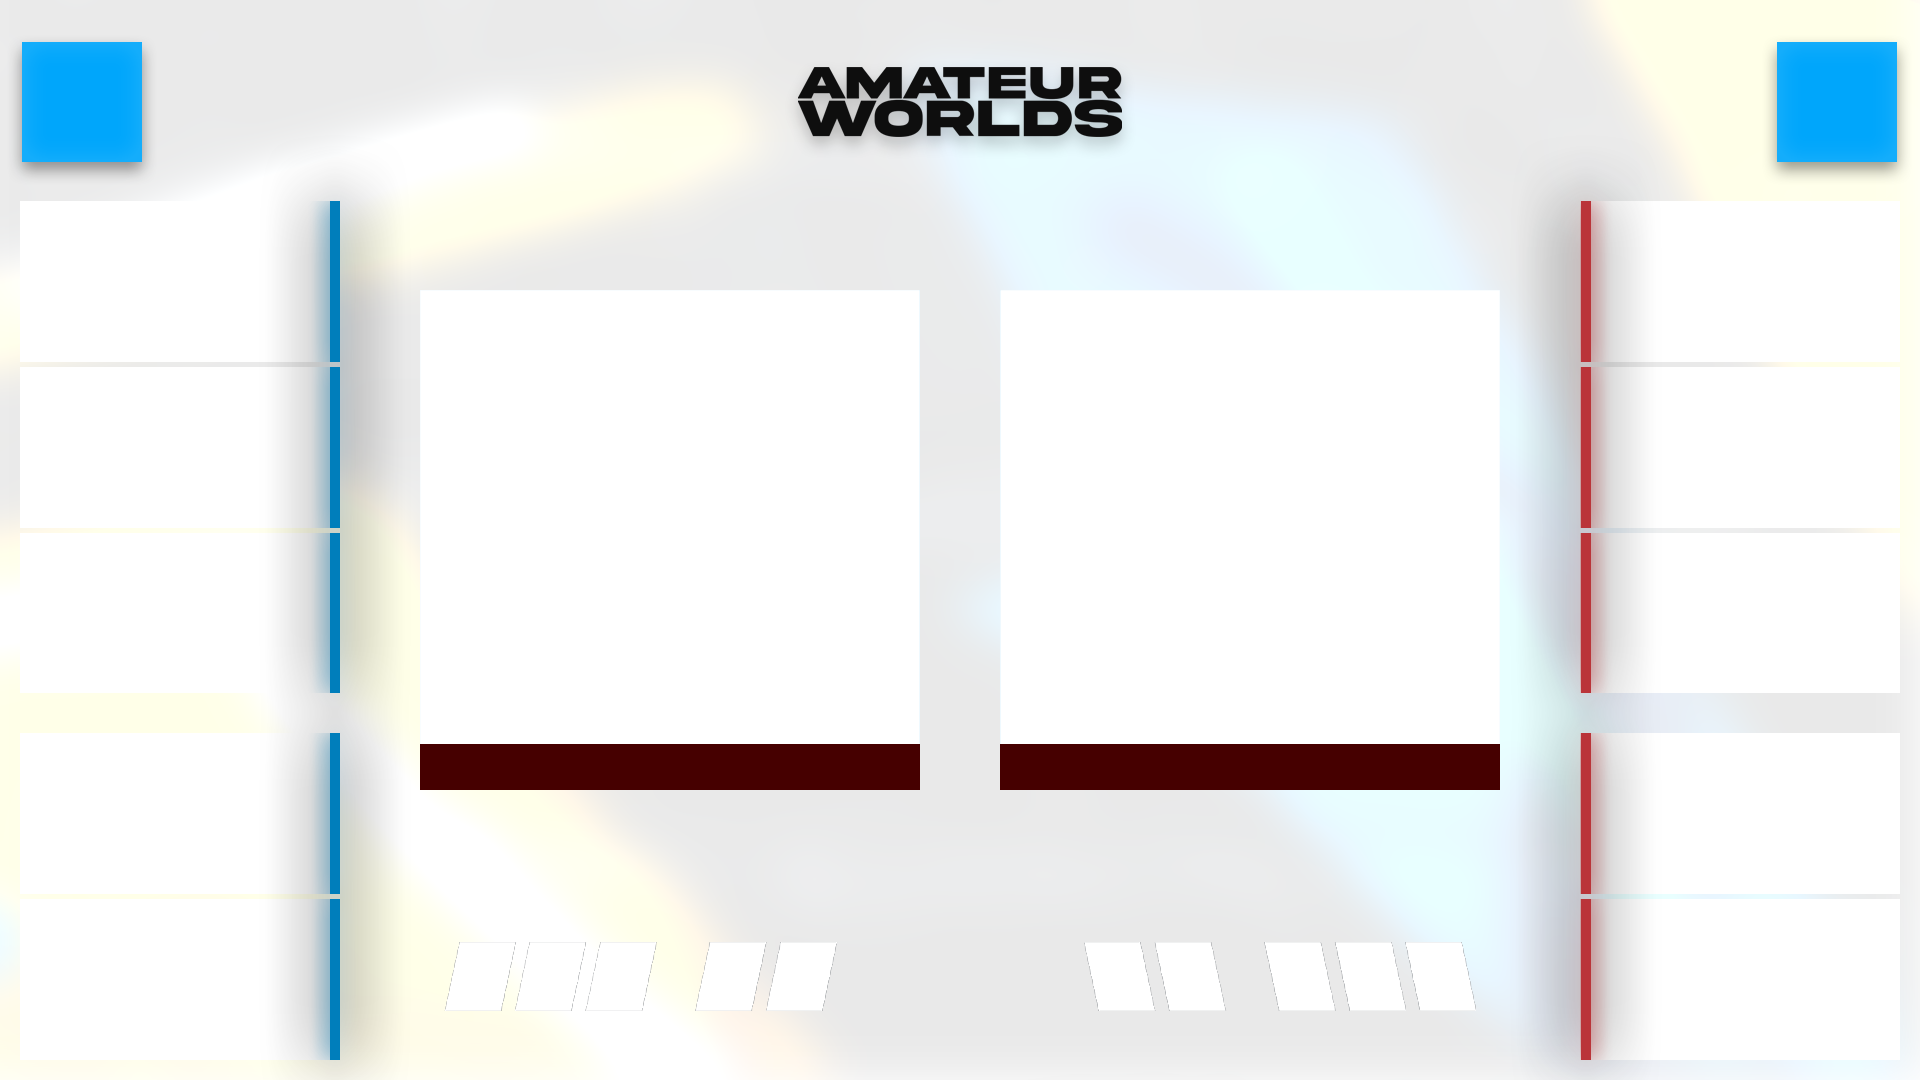
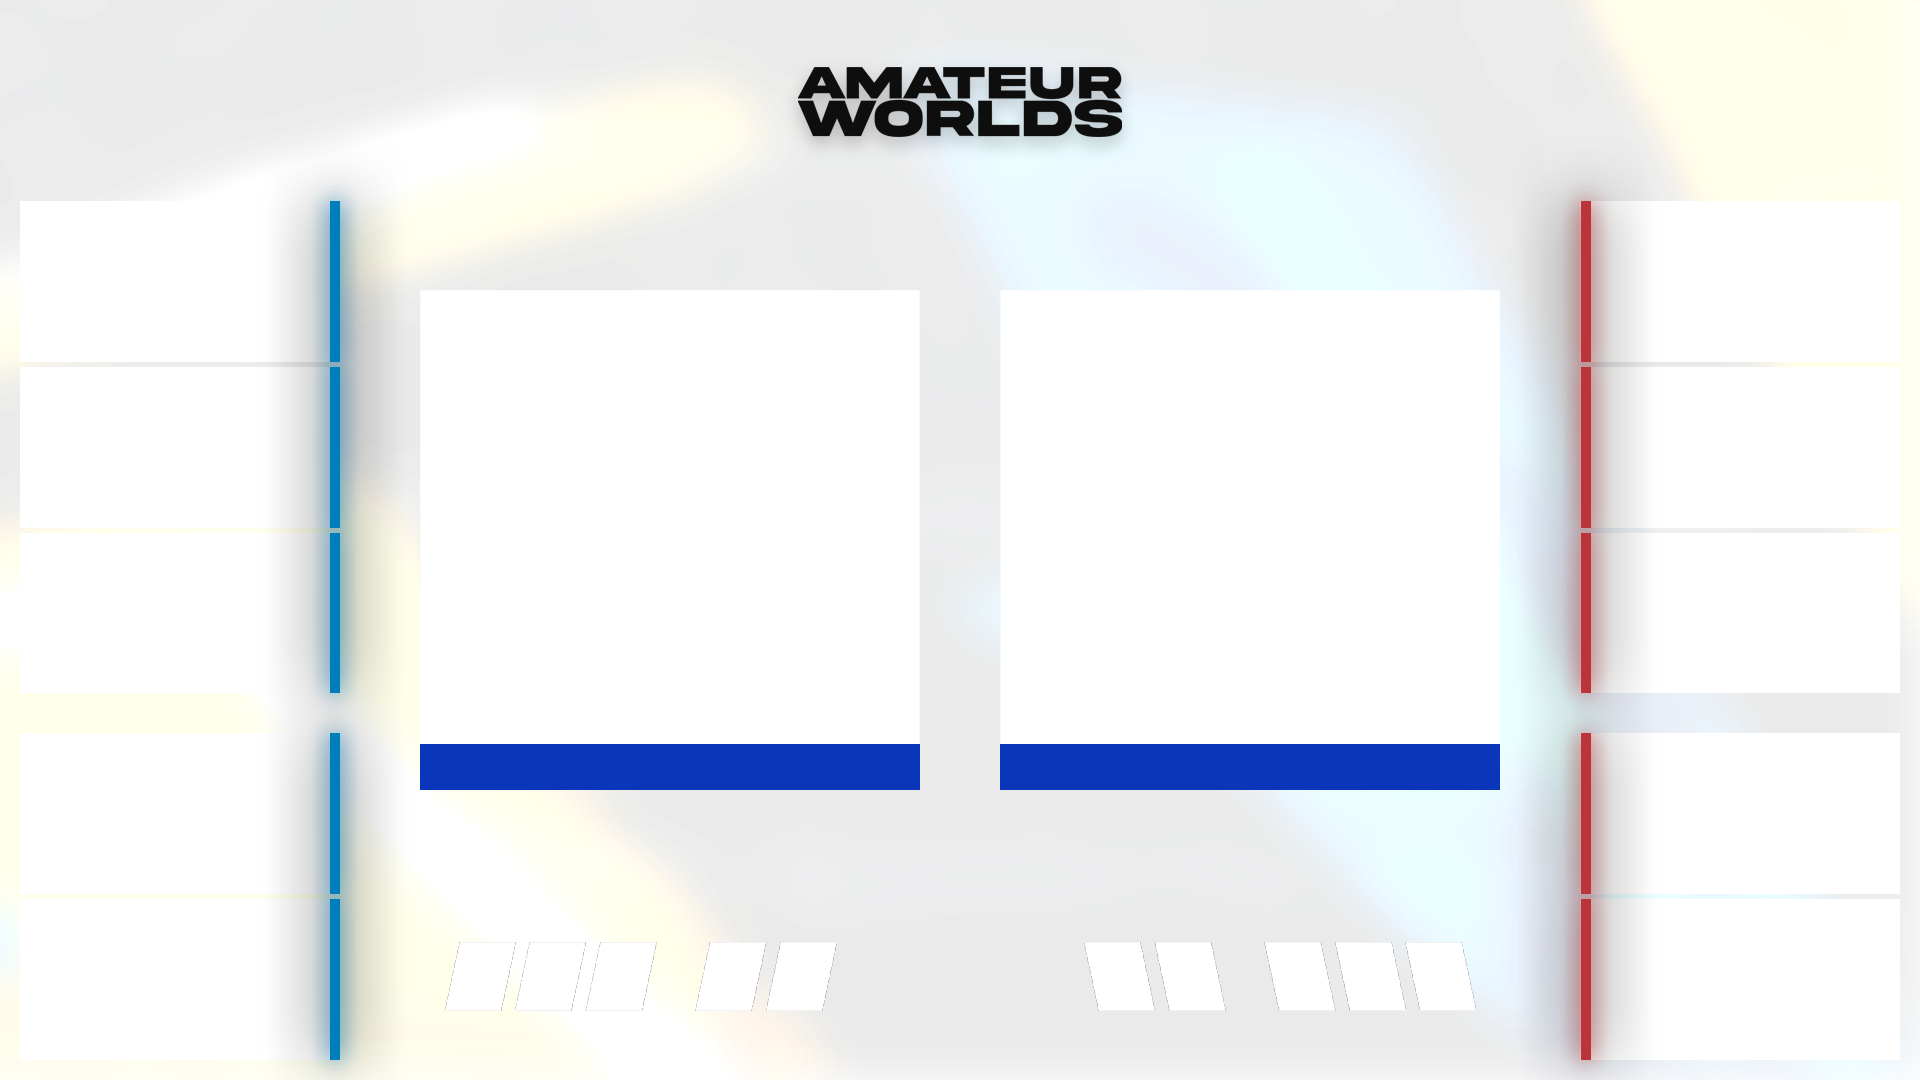
Major changes, see description
- Added caster names to Draftlol
- Procomps logo is now directly in the html file for draft lol
-

diff --git a/bundles/worlds_bundle/graphics/DraftLOL.css b/bundles/worlds_bundle/graphics/DraftLOL.css
@@ -12,11 +12,12 @@ body {
     /* Layout Properties */
     position: absolute;
     top: 72px;
-    width: 177px;
+    width: 521px;
     height: 65px;
     transform: matrix(1, 0, 0, 1, 0, 0);
     /* UI Properties */
     font-family: 'Akira Expanded', sans-serif;
+    text-transform: uppercase;
     font-size: 62.27px;
     letter-spacing: 1.25px;
     color: #0B36B9;
@@ -25,12 +26,45 @@ body {
 
 #team1Name {
     /* Score for Team 1 */
-    left: 162px;
+    left: 160px;
     text-align: left;
 }
 
 #team2Name {
     /* Score for Team 2 */
-    left: 1570px;
+    left: 1253px;
     text-align: right;
+}
+
+.caster {
+    /* Layout Properties */
+    position: absolute;
+    top: 745px;
+    width: 500px;
+    height: 43px;
+    /* UI Properties */
+    font-family: 'Akira Expanded', sans-serif;
+    font-size: 41px;
+    text-align: center;
+    letter-spacing: 0.82px;
+    color: #FFFFFF;
+    text-transform: uppercase;
+    opacity: 1;
+}
+
+#leftCaster {
+    left: 420px;
+}
+
+#rightCaster {
+    left: 1000px;
+}
+
+#proComps {
+    /* Layout Properties */
+    position: absolute;
+    top: 947px;
+    left: 864px;
+    width: 192px;
+    height: 68px;
 }

diff --git a/bundles/worlds_bundle/graphics/DraftLOL.js b/bundles/worlds_bundle/graphics/DraftLOL.js
@@ -4,6 +4,10 @@ const team2El = document.getElementById('team2');
 const team1Name = document.getElementById('team1Name');
 const team2Name = document.getElementById('team2Name');
 
+const LCaster = document.getElementById('leftCaster');
+const RCaster = document.getElementById('rightCaster');
+
+
 nodecg.listenFor('updateTeams', (data) => {
     team1Name.innerHTML = data.team1Name
     team2Name.innerHTML = data.team2Name
@@ -13,6 +17,17 @@ nodecg.listenFor('swapTeams', (data) => {
     team2Name.innerHTML = data.team1Name
     team1Name.innerHTML = data.team2Name
 })
+
+nodecg.listenFor('updateCasters', (data) => {
+    LCaster.innerHTML = data.leftCaster
+    RCaster.innerHTML = data.rightCaster
+})
+
+nodecg.listenFor('swapCasters', (data) => {
+    RCaster.innerHTML = data.leftCaster
+    LCaster.innerHTML = data.rightCaster
+})
+
 
 // Style Listeners
 nodecg.listenFor('IBS', () => {

diff --git a/bundles/worlds_bundle/graphics/DraftLOL.html b/bundles/worlds_bundle/graphics/DraftLOL.html
@@ -14,6 +14,11 @@
         <div class="team" id="team1Name">TM1</div>
         <div class="team" id="team2Name">TM2</div>
 
+        <div class="caster" id="leftCaster">Caster L</div>
+        <div class="caster" id="rightCaster">Caster R</div>
+
+        <img src="./layouts/Procomps Logo.png" id="proComps">
+
     </div>
 
     <script src="DraftLOL.js"></script>
